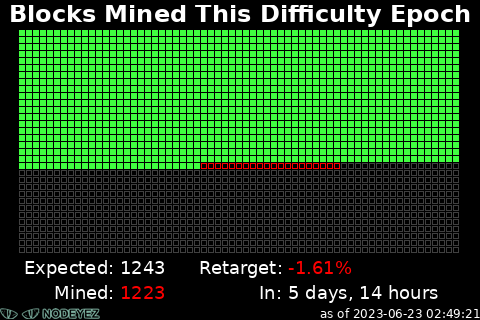
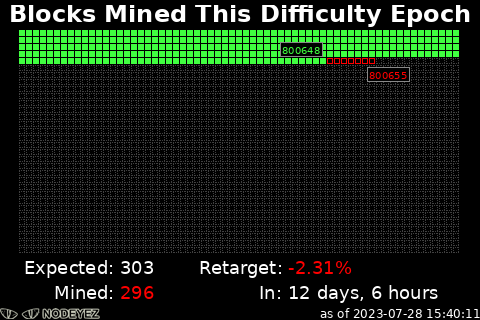
Difficulty Epoch block labels, improved greyscale

diff --git a/scripts/difficultyepoch.py b/scripts/difficultyepoch.py
@@ -47,7 +47,8 @@ class DifficultyEpochPanel(NodeyezPanel):
         """Fetches all the data needed for this panel"""
 
         self.blockheight = vicariousbitcoin.getcurrentblock()
-        j = vicariousbitcoin.getblock(vicariousbitcoin.getfirstblockforepoch(self.blockheight))
+        self.epochFirstBlock = vicariousbitcoin.getfirstblockforepoch(self.blockheight)
+        j = vicariousbitcoin.getblock(self.epochFirstBlock)
         self.epochBlocksMined = int(j["confirmations"])
         self.epochBeganTime = int(j["time"])
 
@@ -93,6 +94,10 @@ class DifficultyEpochPanel(NodeyezPanel):
         else:
             nextEpochDescription = "about 2 weeks"
 
+        # tracking for labeling
+        lastMinedX, lastMinedY, lastMinedBlock = -1, -1, -1
+        lastAheadX, lastAheadY, lastAheadBlock = -1, -1, -1
+        lastBehindX, lastBehindY, lastBehindBlock = -1, -1, -1
         # grid
         gridRows = 32
         blocksPerGridRow = blocksPerDifficultyEpoch // gridRows # 63
@@ -103,23 +108,85 @@ class DifficultyEpochPanel(NodeyezPanel):
         for dc in range(blocksPerGridRow):
             for dr in range(gridRows):
                 epochblocknum = ((dr*blocksPerGridRow) + dc)+1
+                blockBeingRendered = self.epochFirstBlock + epochblocknum - 1
                 tlx = (padleft + (dc*blockw))
                 tly = (padtop + (dr*blockw))
                 brx = tlx+blockw-2
                 bry = tly+blockw-2
                 if epochblocknum <= self.epochBlocksMined:
-                    fillcolor = self.minedColor
+                    fillcolor = self.minedColor                 # green
                     if epochblocknum > epochBlocksExpected:
-                        fillcolor = self.aheadColor
-                        currentminedcolor = self.aheadColor
+                        fillcolor = self.aheadColor             # yellow
+                        currentminedcolor = self.aheadColor     # yellow
+                        if blockBeingRendered > lastAheadBlock:
+                            lastAheadX = tlx
+                            lastAheadY = tly
+                            lastAheadBlock = blockBeingRendered
+                    else:
+                        if blockBeingRendered > lastMinedBlock:
+                            lastMinedX = tlx
+                            lastMinedY = tly
+                            lastMinedBlock = blockBeingRendered
                     self.draw.rectangle(xy=((tlx,tly),(brx,bry)),fill=ImageColor.getrgb(fillcolor))
                 else:
-                    outlinecolor = self.gridColor
+                    outlinecolor = self.gridColor               # grey
                     if epochblocknum <= epochBlocksExpected:
-                        outlinecolor = self.behindColor
-                        currentminedcolor = self.behindColor
-                    self.draw.rectangle(xy=((tlx,tly),(brx,bry)),fill=None,outline=ImageColor.getrgb(outlinecolor))
-        # labels
+                        outlinecolor = self.behindColor         # red
+                        currentminedcolor = self.behindColor    # red
+                        if blockBeingRendered > lastBehindBlock:
+                            lastBehindX = tlx
+                            lastBehindY = tly
+                            lastBehindBlock = blockBeingRendered
+                        self.draw.rectangle(xy=((tlx,tly),(brx,bry)),fill=None,outline=ImageColor.getrgb(outlinecolor))
+                    else: # dashed box
+                        dllen = 2
+                        dslen = 1
+                        for dlx in range(tlx,brx,dllen): self.draw.line(xy=[(dlx,tly),(dlx+(dslen-1),tly)],fill=ImageColor.getrgb(outlinecolor),width=1)
+                        for dly in range(tly,bry,dllen): self.draw.line(xy=[(brx,dly),(brx,dly+(dslen-1))],fill=ImageColor.getrgb(outlinecolor),width=1)
+                        for dlx in range(brx,tlx,(-1*dllen)): self.draw.line(xy=[(dlx,bry),(dlx-(dslen-1),bry)],fill=ImageColor.getrgb(outlinecolor),width=1)
+                        for dly in range(bry,tly,(-1*dllen)): self.draw.line(xy=[(tlx,dly),(tlx,dly-(dslen-1))],fill=ImageColor.getrgb(outlinecolor),width=1)
+
+        # labels - key blocks
+        if lastMinedBlock > -1:
+            labelText = str(lastMinedBlock)
+            labelX = lastMinedX
+            if lastMinedY < (padtop + (2*blockw)):
+                minedAnchor = "tr"
+                labelY = lastMinedY + blockw + math.ceil(blockw/2)
+                if lastMinedX < 100: minedAnchor = "tl"
+            else:                
+                minedAnchor = "br"
+                labelY = lastMinedY - math.ceil(blockw/2)
+                if lastMinedX < 100: minedAnchor = "bl"
+            vicarioustext.drawLabel(draw=self.draw,s=labelText,fontsize=10,anchorposition=minedAnchor,anchorx=labelX,anchory=labelY,textColor=self.minedColor)
+        if lastBehindBlock > -1:
+            labelText = str(lastBehindBlock)
+            labelX = lastBehindX
+            if lastBehindY > (padtop + ((gridRows-2)*blockw)):
+                behindAnchor = "bl"
+                labelY = lastBehindY - math.ceil(blockw/2)
+                if lastBehindX > self.width - 100: behindAnchor = "br"
+            else:                
+                behindAnchor = "tl"
+                labelY = lastBehindY + blockw + math.ceil(blockw/2)
+                if lastBehindX > self.width - 100: behindAnchor = "tr"
+            if lastMinedY != lastBehindY or minedAnchor[:1] != behindAnchor[:1]:
+                vicarioustext.drawLabel(draw=self.draw,s=labelText,fontsize=10,anchorposition=behindAnchor,anchorx=labelX,anchory=labelY,textColor=self.behindColor)
+        if lastAheadBlock > -1:
+            labelText = str(lastAheadBlock)
+            labelX = lastAheadX
+            if lastAheadY > (padtop + ((gridRows-2)*blockw)):
+                aheadAnchor = "bl"
+                labelY = lastAheadY - math.ceil(blockw/2)
+                if lastAheadX > self.width - 100: aheadAnchor = "br"
+            else:                
+                aheadAnchor = "tl"
+                labelY = lastAheadY + blockw + math.ceil(blockw/2)
+                if lastAheadX > self.width - 100: aheadAnchor = "tr"
+            if lastMinedY != lastAheadY or minedAnchor[:1] != aheadAnchor[:1]:
+                vicarioustext.drawLabel(draw=self.draw,s=labelText,fontsize=10,anchorposition=aheadAnchor,anchorx=labelX,anchory=labelY,textColor=self.aheadColor)
+
+        # labels - general
         fs = int(self.height * (18/320))    # 18 default font size for 320 pixel high image
         labelHeight = int(fs * 1.40)
         col1X = int(self.width * .25)

diff --git a/CHANGELOG.md b/CHANGELOG.md
@@ -8,6 +8,7 @@ title: NODEYEZ Change Log
 **New Panels and Ehancements**
 
 - Blockstats panels for feerates now reports the low value in addition to high and avg
+- Difficulty Epoch panel now shows key block height labels and dithered outline for unexpected non-mined
 - Nostr.Band Stats panel graphs the Active Pubkeys, Badge Definitions and Zaps per Day seen over the previous 2 months
 
 **General**
